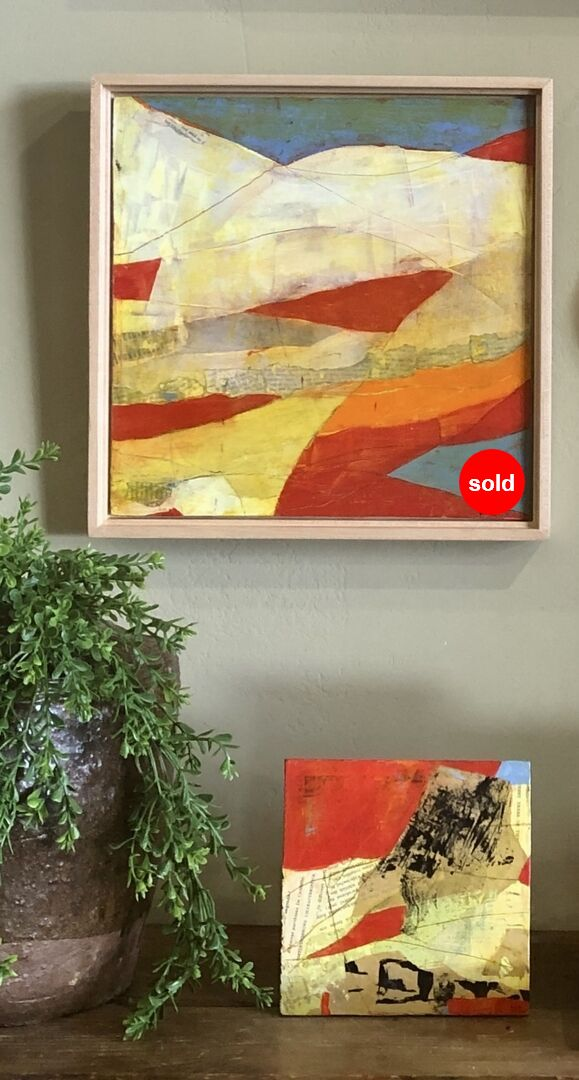
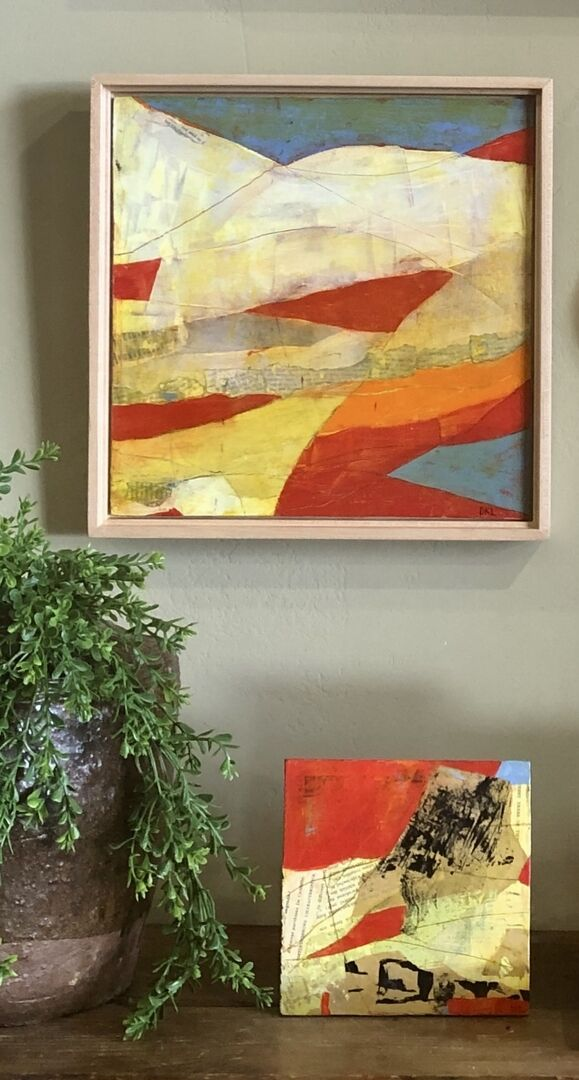
Test.

Changed region(s): [[0.7772, 0.3972, 0.9326, 0.4889]]

diff --git a/scripts.js b/scripts.js
@@ -70,6 +70,34 @@ function check_if_image_exists(gallery_name,image_number,max_image_number,direct
    return false;
 }
 
+function check_if_image_sold(gallery_name,image_number,max_image_number,image_count)
+{
+   $.ajax
+   (
+   {
+      url: gallery_name+"/"+gallery_name+"_"+image_number+"_caption.txt",
+
+      dataType: "html",
+
+      success: function(data)
+      {
+         image_sold = false;
+
+         if (data.includes(">sold<") == true) image_sold = true;
+
+         load_image(gallery_name,image_number,image_count+1,image_sold);
+      },
+
+      error: function()
+      {
+         load_image(gallery_name,image_number,image_count+1,false);
+      },
+   }
+   );
+
+   return false;
+}
+
 function close_menu()
 {
    document.getElementById("menu_list").style.width = "0px";
@@ -286,7 +314,7 @@ function load_data_from_file(file_name,element_id,display_error,scroll_to_exhibi
    return true;
 }
 
-function load_image(gallery_name,image_number,image_count)
+function load_image(gallery_name,image_number,image_count,image_sold)
 {
    var column_count     = window.getComputedStyle(document.getElementById("art_gallery")).columnCount;
    var file_name_prefix = gallery_name + "_" + image_number;
@@ -312,7 +340,10 @@ function load_image(gallery_name,image_number,image_count)
       document.getElementById("three_column_3").style.display = "block";
    }
 
-   image_html = '<a class="art_image_link" href="display_image.html?image_file_name='+image_path+'&max_image_number='+max_image_number+'" target="_self"><img src="'+image_path+'" class="art_image border_radius"></a>';
+   image_html  = '<div id="image_div" class="art_image_link_container">';
+   image_html += '   <a class="art_image_link" href="display_image.html?image_file_name='+image_path+'&max_image_number='+max_image_number+'" target="_self"><img src="'+image_path+'" class="art_image border_radius"></a>';
+   if (image_sold == true) image_html += '   <div id="solld_tag" class="sold_tag">SOLD</div>';
+   image_html += '</div>';
 
    document.getElementById("one_column_1").insertAdjacentHTML("beforeend",image_html);
 
@@ -363,7 +394,7 @@ function load_image_into_gallery(gallery_name,image_number,max_image_number,imag
 
       success: function()
       {
-         load_image(gallery_name,image_number,image_count+1);
+         check_if_image_sold(gallery_name,image_number,max_image_number,image_count);
       },
 
       error: function()

diff --git a/styles.css b/styles.css
@@ -409,7 +409,6 @@ a.header_link:hover
    width: 100%;
    height: auto;
    display: block;
-   transition: transform .5s ease;
 }
 
 .art_image_link
@@ -420,11 +419,18 @@ a.header_link:hover
    display: inline-block;
 }
 
+.art_image_link_container
+{
+   position: relative;
+   display: inline-block;
+   transition: transform .5s ease;
+}
+
 @media (hover: hover)
 {
    /* The following should only be applied if devices support hovering */
 
-   .art_image:hover
+   .art_image_link_container:hover
    {
       transform: scale(1.05);
       transform-origin: center center;
@@ -567,4 +573,22 @@ a.header_link:hover
    height: 100vh;
    margin: 0px auto;
    overflow-y: hidden;
+}
+
+.sold_tag
+{
+   position: absolute;
+   top: 20px;
+   left: 0px;
+   font-family: Arial, sans-serif;
+   font-size: 12px;
+   font-weight: bold;
+   color: white;
+   letter-spacing: 2px;
+   background-color: rgba(255, 0, 0, 75%);
+   height: 16px;
+   width: 50px;
+   display: grid;
+   align-items: center;
+   z-index: 1;
 }
